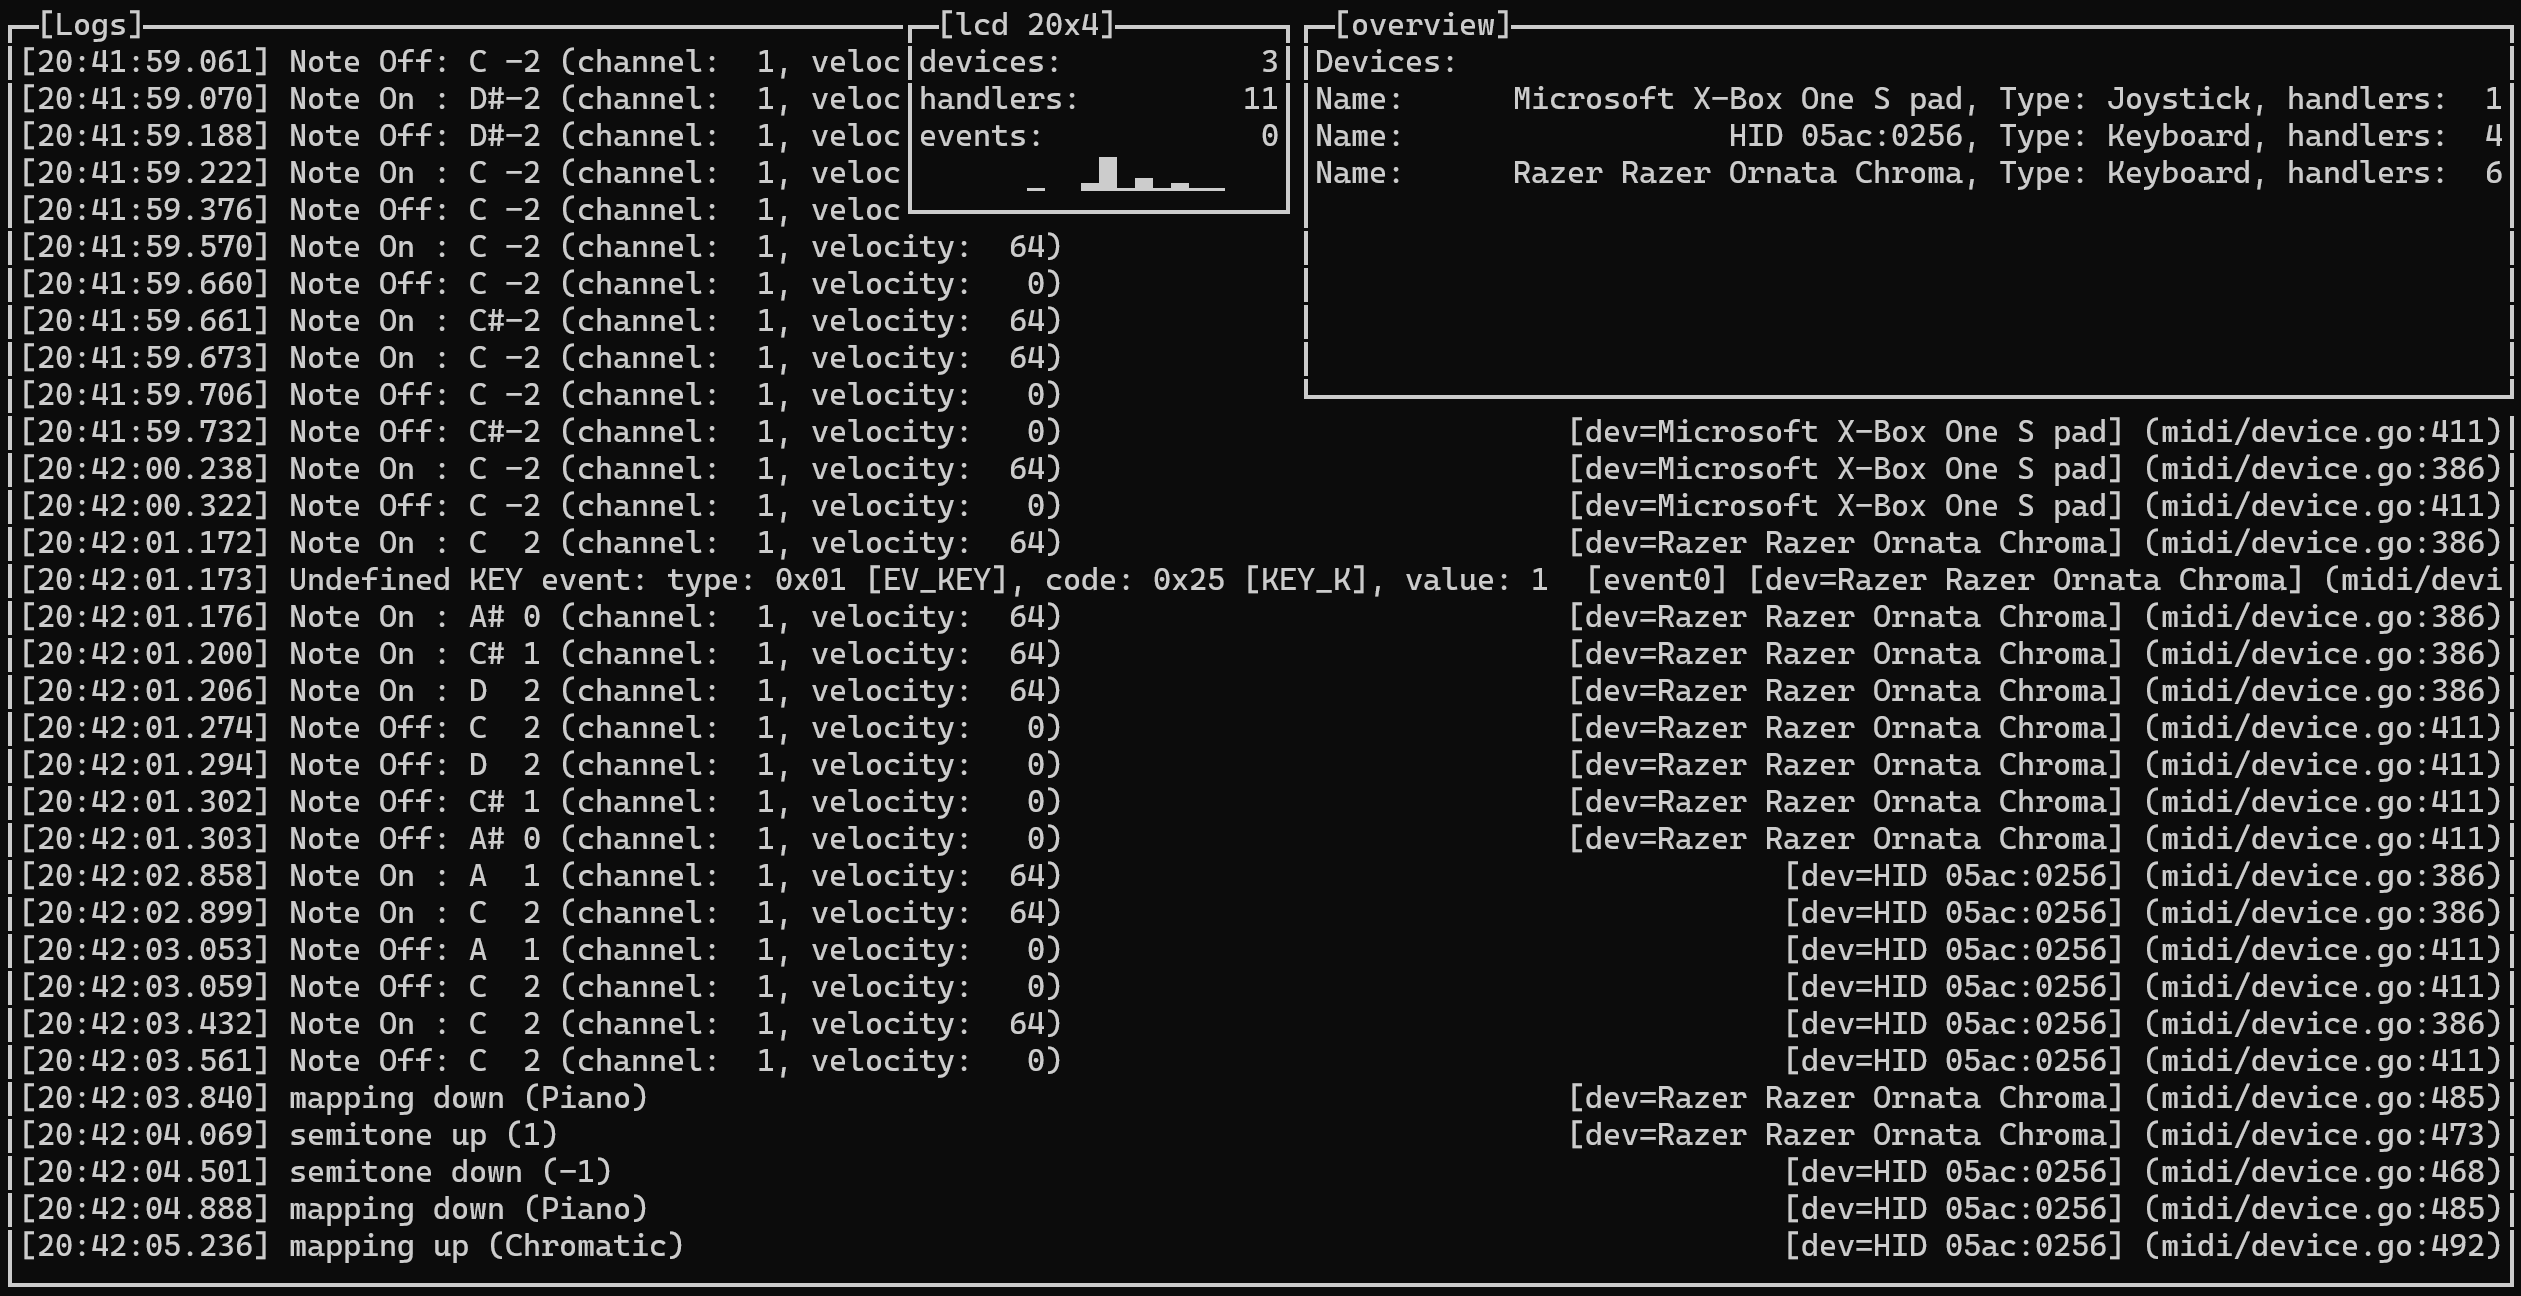
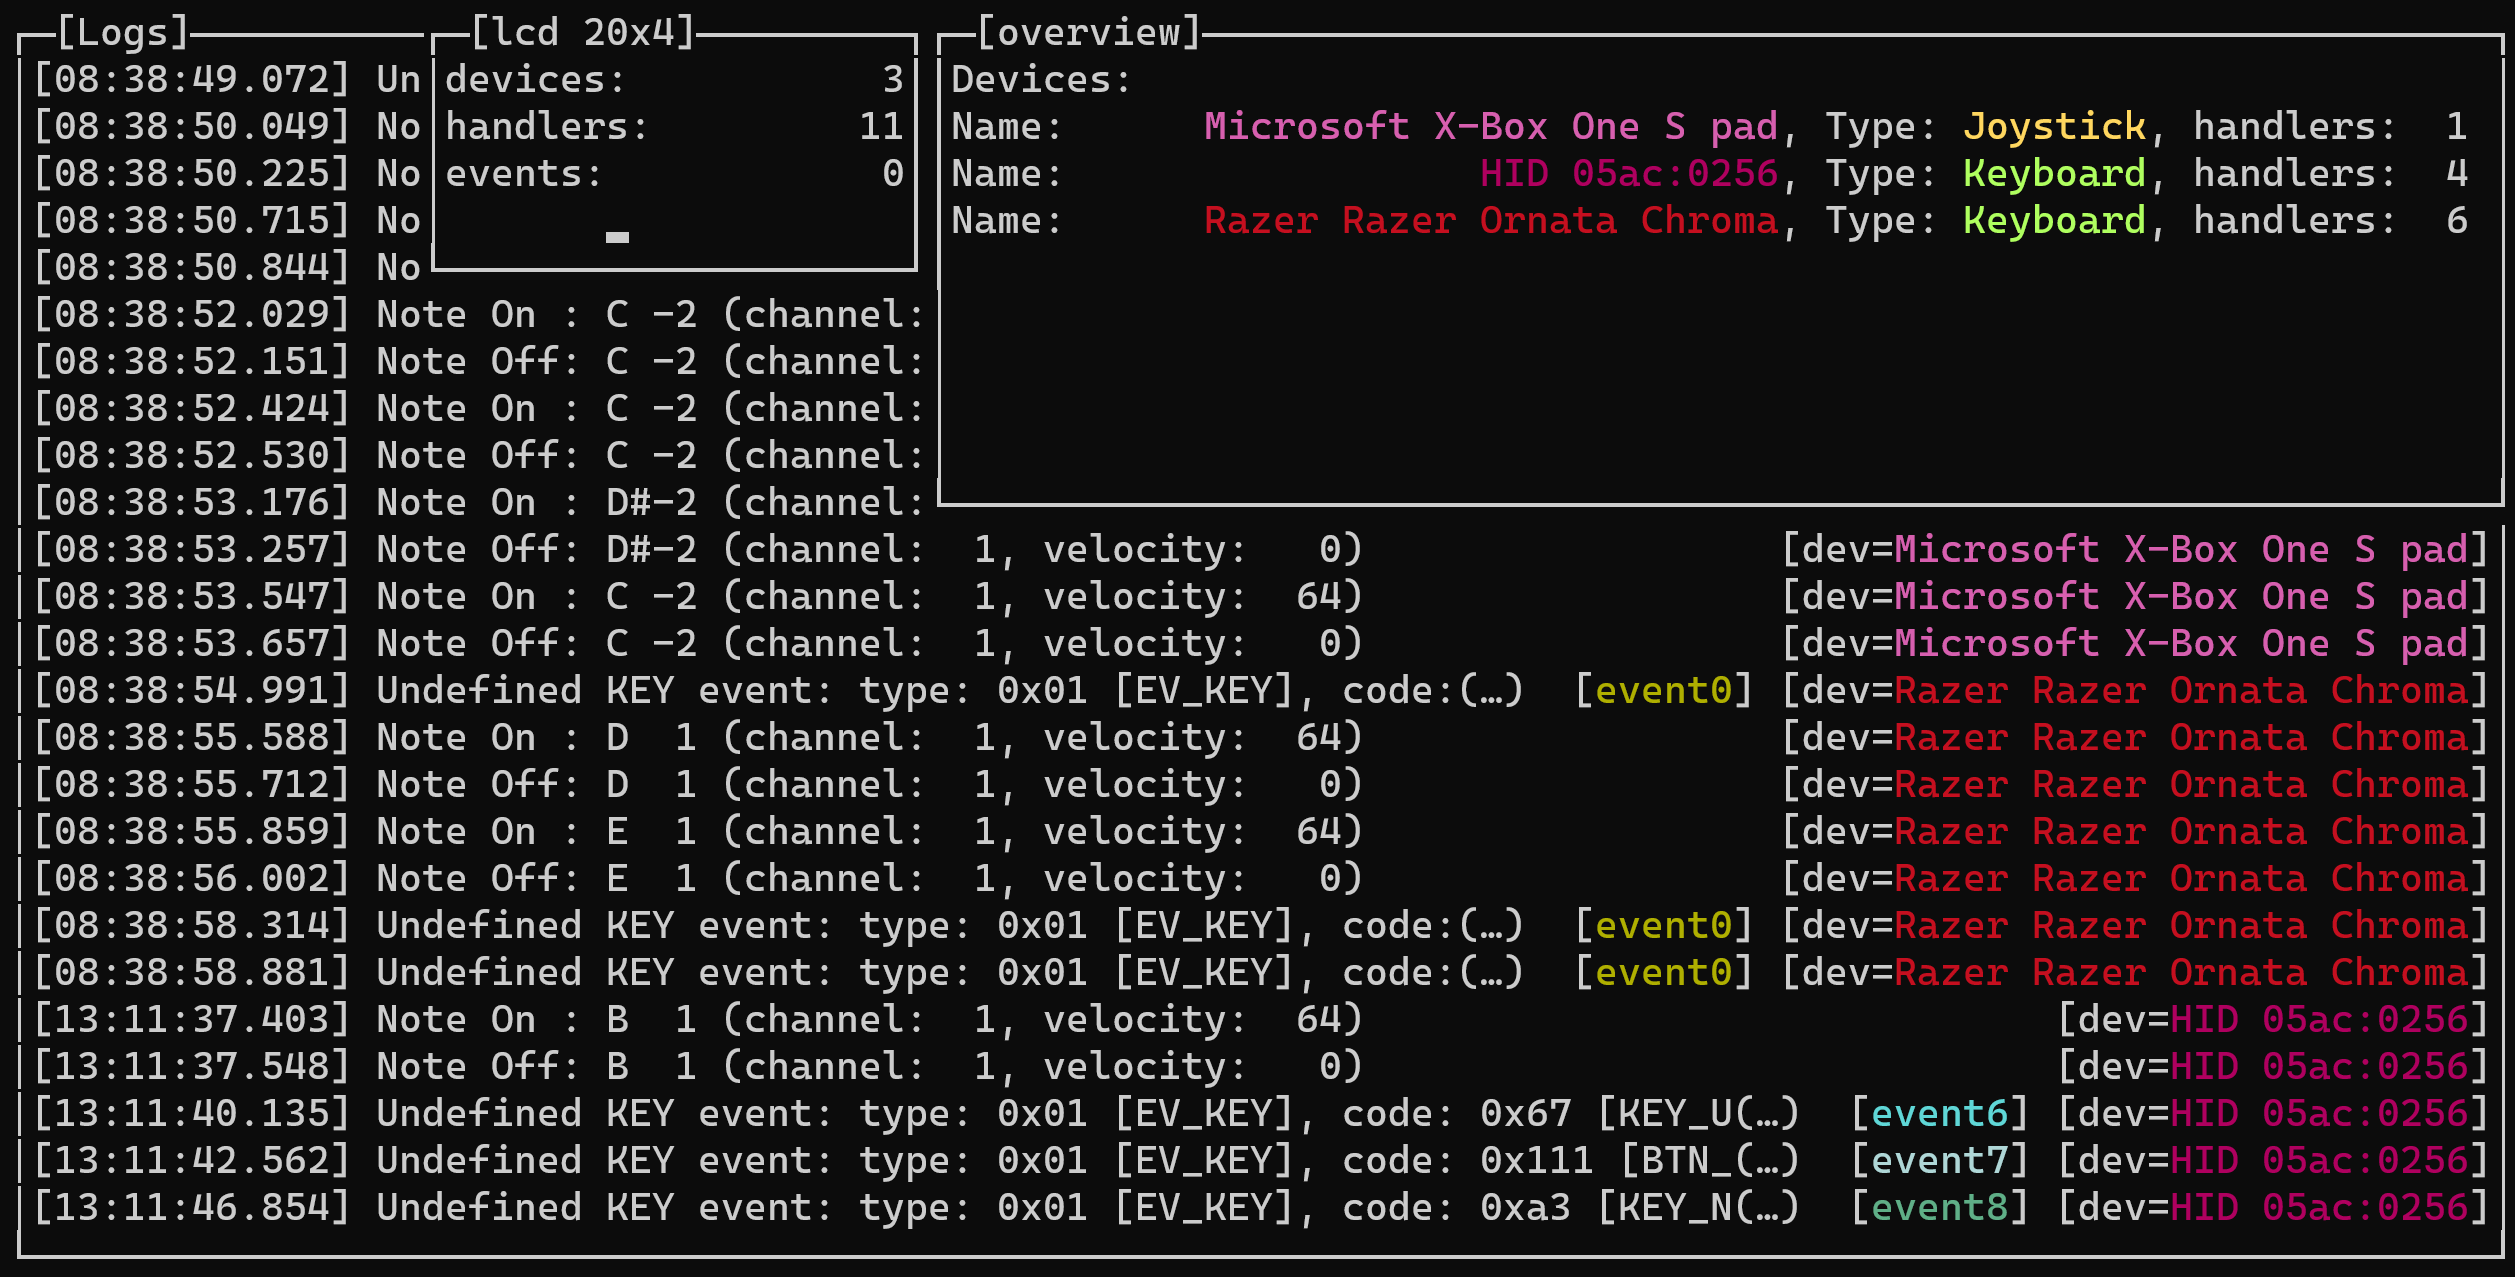
initial colorization support

Changed region(s): [[0.0, 0.0, 1.0, 1.0]]

diff --git a/cmd/cli.go b/cmd/cli.go
@@ -3,7 +3,10 @@ package main
 import (
 	"encoding/json"
 	"fmt"
+	"hash/fnv"
+	"math/rand"
 	"strconv"
+	"strings"
 	"time"
 
 	"github.com/gethiox/HIDI/internal/pkg/logger"
@@ -47,14 +50,6 @@ func Layout(g *gocui.Gui) error {
 		v.Autoscroll = true
 		v.Wrap = false
 		v.Frame = true
-
-		// for i := 0; i < 200; i++ {
-		// 	fmt.Fprintf(v, fmt.Sprintf("\nHello world! %s %d", aurora.Red("asdf"), i))
-		// }
-		//
-		// for i := uint8(16); i <= 231; i++ {
-		// 	fmt.Fprintf(v, fmt.Sprintf("\n%d, %s, %s", i, aurora.Index(i, "pew-pew"), aurora.BgIndex(i, "pew-pew")))
-		// }
 	}
 
 	if v, err := g.SetView(ViewOverview, maxX-69, 0, maxX-1, 10); err != nil {
@@ -134,6 +129,84 @@ func NewFeeder(gui *gocui.Gui, viewName string, logLevel int) (Feeder, error) {
 	return Feeder{view: v, logLevel: logLevel}, nil
 }
 
+func color(r, g, b uint8) aurora.Color {
+	return aurora.Color(16 + 36*r + 6*g + b)
+}
+
+// r, g, b 0<=v<=6
+func getColor(r, g, b uint8, v interface{}) aurora.Value {
+	n := 16 + 36*r + 6*g + b
+	return aurora.Index(n, v)
+}
+
+func randomColor(v interface{}) aurora.Value {
+	return getColor(uint8(rand.Intn(7)), uint8(rand.Intn(7)), uint8(rand.Intn(7)), v)
+}
+
+func terminator(r rune) bool {
+	if r >= 0x40 && r <= 0x7e {
+		return true
+	}
+	return false
+}
+
+// returns random color for string, will return the same color for the same string
+func colorForString(s string) aurora.Value {
+	h := fnv.New32a()
+	h.Write([]byte(s))
+	sum := h.Sum32()
+
+	r, g, b := uint8(sum), uint8(sum>>8), uint8(sum>>16)
+
+	if r+g+b < 64 {
+		b = 64
+	}
+
+	return aurora.Index(16+36*r+6*g+b, s)
+	// return color(uint8(sum), uint8(sum>>8), uint8(sum>>16))
+}
+
+// rawStringLen returns a len of string ignoring included escape sequences
+func rawStringLen(s string) int {
+	var sequence bool
+	var escLens []int
+	var escLen int
+
+	for i, r := range s {
+		if !sequence {
+			if r == '\033' {
+				if i >= len(s)-1 { // esc seems to be last character
+					continue
+				}
+				if s[i+1] == '[' {
+					sequence = true
+					escLen += 1
+					continue
+				}
+
+			}
+		} else {
+			if r == '[' && s[i-1] == '\033' {
+				escLen += 1
+				continue
+			}
+			if terminator(r) {
+				sequence = false
+				escLen += 1
+				escLens = append(escLens, escLen)
+				escLen = 0
+			} else {
+				escLen += 1
+			}
+		}
+	}
+	var sum int
+	for _, x := range escLens {
+		sum += x
+	}
+	return len(s) - sum
+}
+
 func (f *Feeder) Write(data []byte) {
 	x, _ := f.view.Size()
 	msg, err := unpack(data)
@@ -148,32 +221,57 @@ func (f *Feeder) Write(data []byte) {
 	}
 
 	tf := time.Time(msg.Ts).Format("15:04:05.000")
-	ml := fmt.Sprintf("[%s] %s", tf, msg.Msg)
-	mr := ""
+
+	timestamp := fmt.Sprintf("[%s]", tf)
+
+	fields := ""
 	if msg.Config != "" {
-		mr += fmt.Sprintf(" [config=%s]", msg.Config)
+		fields += fmt.Sprintf(" [config=%s]", colorForString(msg.Config).String())
 	}
 	if msg.HandlerName != "" {
-		mr += fmt.Sprintf(" [handler=%s]", msg.HandlerName)
+		fields += fmt.Sprintf(" [handler=%s]", colorForString(msg.HandlerName).String())
 	}
 	if msg.HandlerEvent != "" {
-		mr += fmt.Sprintf(" [%s]", msg.HandlerEvent)
+		fields += fmt.Sprintf(" [%s]", colorForString(msg.HandlerEvent).String())
 	}
 	if msg.DeviceType != "" {
-		mr += fmt.Sprintf(" [type=%s]", msg.DeviceType)
+		fields += fmt.Sprintf(" [type=%s]", colorForString(msg.DeviceType).String())
 	}
 	if msg.Device != "" {
-		mr += fmt.Sprintf(" [dev=%s]", msg.Device)
+		fields += fmt.Sprintf(" [dev=%s]", colorForString(msg.Device).String())
 	}
 	if f.logLevel >= logger.DebugLvl {
-		mr += fmt.Sprintf(" (%s)", msg.Caller)
+		fields += fmt.Sprintf(" (%s)", colorForString(msg.Caller).String())
 	}
 
-	mrPad := fmt.Sprintf("%%%ds", x-len(ml)-1)
-	mrPadded := fmt.Sprintf(mrPad, mr)
-	m := fmt.Sprintf("%s %s", ml, mrPadded)
+	fieldsLen := rawStringLen(fields)
+	timeLen := len(timestamp)
+	msgLen := len(msg.Msg)
+
+	var m string
+	freeSpace := x - (timeLen + 1 + msgLen + 1 + fieldsLen)
+	if freeSpace < 0 {
+		limit := (x - (fieldsLen + 1 + timeLen + 1)) - 3
+		if limit < 20 {
+			m = msg.Msg
+			fields = aurora.Gray(12, "(fields hidden)").String()
+			freeSpace = x - (timeLen + 1 + msgLen + 1 + rawStringLen(fields))
+			if freeSpace < 0 {
+				freeSpace = 0
+			}
+		} else {
+			m = msg.Msg[:limit] + "(…)"
+			freeSpace = 0
+		}
+	} else {
+		m = msg.Msg
+	}
+
+	separators := strings.Repeat(" ", freeSpace)
+
+	mm := fmt.Sprintf("%s %s%s %s", timestamp, m, separators, fields)
 	f.view.Write([]byte{'\n'})
-	f.view.Write([]byte(m))
+	f.view.Write([]byte(mm))
 }
 
 func (f *Feeder) OverWrite(data []byte) {

diff --git a/cmd/overview.go b/cmd/overview.go
@@ -3,6 +3,7 @@ package main
 import (
 	"fmt"
 	"sort"
+	"strings"
 	"time"
 
 	"github.com/gethiox/HIDI/internal/pkg/logger"
@@ -31,8 +32,6 @@ func overviewView(g *gocui.Gui, devices map[*midi.Device]*midi.Device) {
 	}
 
 	for {
-		time.Sleep(time.Millisecond * 500)
-
 		var viewData []string
 		viewData = append(viewData, "Devices:")
 
@@ -45,10 +44,14 @@ func overviewView(g *gocui.Gui, devices map[*midi.Device]*midi.Device) {
 		sort.Sort(ptrs)
 
 		for _, d := range ptrs {
+			dname := d.InputDevice.Name
+			dtype := d.InputDevice.DeviceType.String()
+			nameSep := 30 - len(dname)
+			typeSep := 8 - len(dtype)
 			s := fmt.Sprintf(
-				"Name: %30s, Type: %8s, handlers: %2d",
-				d.InputDevice.Name,
-				d.InputDevice.DeviceType.String(),
+				"Name: %s, Type: %s, handlers: %2d",
+				strings.Repeat(" ", nameSep)+colorForString(dname).String(),
+				strings.Repeat(" ", typeSep)+colorForString(dtype).String(),
 				len(d.InputDevice.Handlers),
 			)
 			viewData = append(viewData, s)
@@ -59,7 +62,7 @@ func overviewView(g *gocui.Gui, devices map[*midi.Device]*midi.Device) {
 			view.Write([]byte{'\n'})
 			view.Write([]byte(d))
 		}
-
+		time.Sleep(time.Millisecond * 500)
 	}
 }
 

diff --git a/cmd/cli_test.go b/cmd/cli_test.go
@@ -1,0 +1,31 @@
+package main
+
+import (
+	"fmt"
+	"testing"
+
+	"github.com/stretchr/testify/assert"
+)
+
+func TestRawStringLen(t *testing.T) {
+	for i, tc := range []struct {
+		input    string
+		expected int
+	}{
+		{input: "", expected: 0},
+		{input: "a", expected: 1},
+		{input: "a\033", expected: 2},
+		{input: "a\033[", expected: 3},
+		{input: "a\033[2", expected: 4},
+		{input: "a\033[2A", expected: 1},
+		{input: "a\033[2Aa", expected: 2},
+	} {
+		t.Run(fmt.Sprintf("%d", i), func(t *testing.T) {
+
+			l := rawStringLen(tc.input)
+			assert.Equal(t, tc.expected, l)
+		})
+
+	}
+
+}

diff --git a/cmd/main.go b/cmd/main.go
@@ -5,6 +5,7 @@ import (
 	_ "embed"
 	"flag"
 	"fmt"
+	"math/rand"
 	"net/http"
 	_ "net/http/pprof"
 	"os"
@@ -91,6 +92,8 @@ func main() {
 	flag.BoolVar(&noPony, "nopony", false, "oh my... You can disable me if you want to, I.. I don't really mind. I'm fine")
 	flag.IntVar(&midiDevice, "mididevice", 0, "select N-th midi device, default: 0 (first)")
 	flag.Parse()
+
+	rand.Seed(time.Now().Unix())
 
 	g, err := GetCli()
 	if err != nil {

diff --git a/README.md b/README.md
@@ -8,7 +8,13 @@ These are things that I want to make before 1.0 release:
   - [x] gocui cli view for logging, device statistics and virtual LCD information
   - [x] log deserialization
   - [x] pretty print for logs
+    - [x] align text to the terminal width
+    - [x] handle small terminal windows, trimming message, hiding extra fields
   - [ ] output colorization
+    - [x] initial colorization support
+    - [x] colorize segments with unique color for strings for given sections
+    - [x] 256 color mode
+    - [ ] 16 and 0 colors mode with autodetection
 - [x] implement device overview status
 - [ ] Improve throttling logic to the best possible solution
 - [ ] Optimize output writing to buffers
